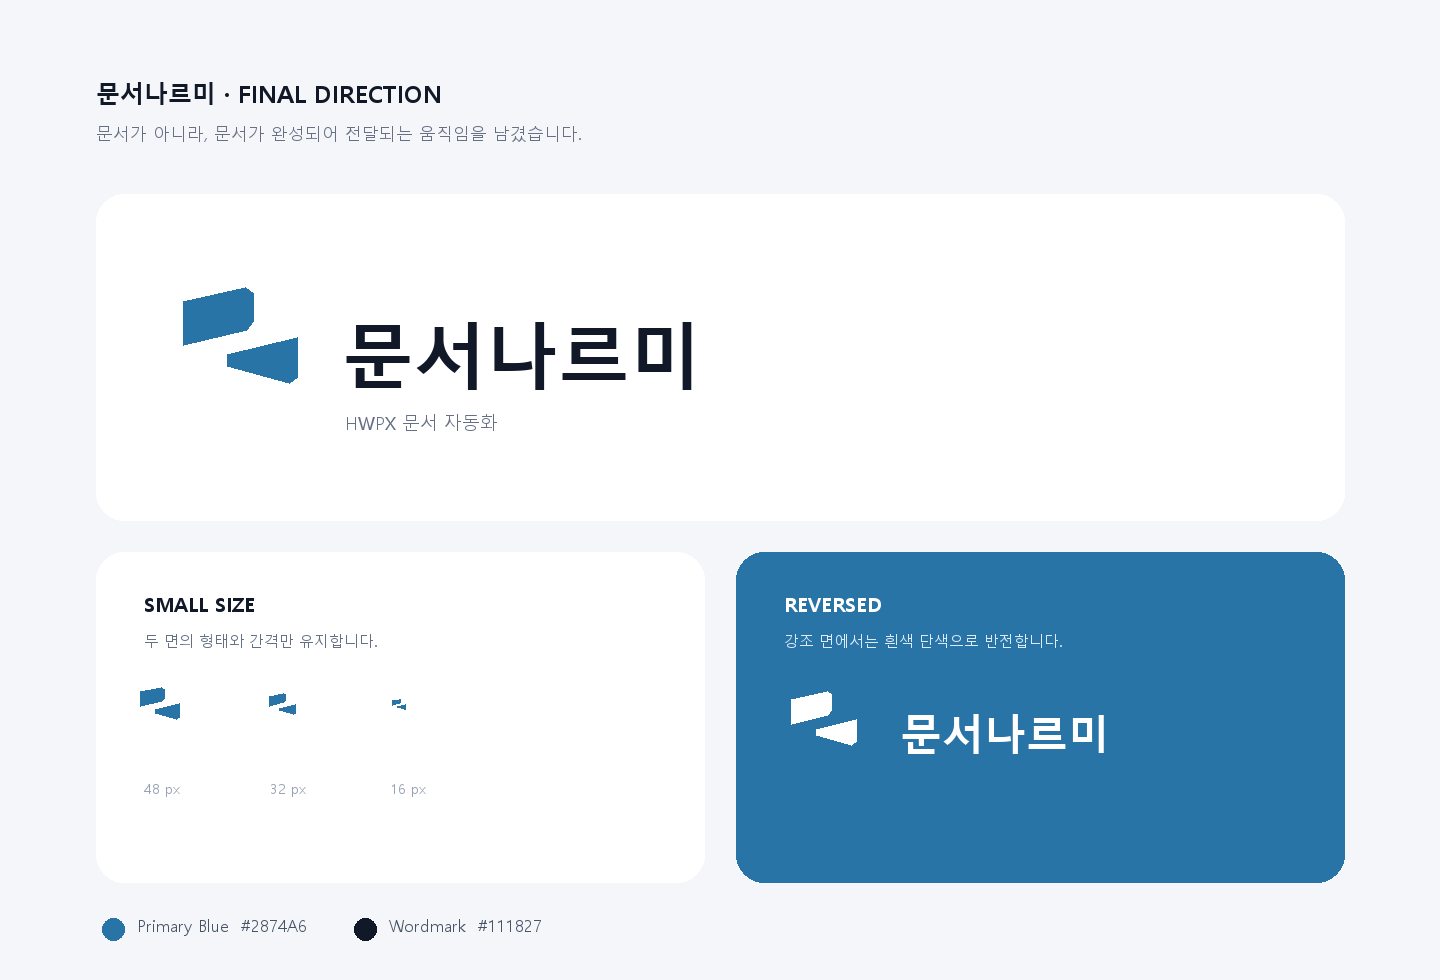
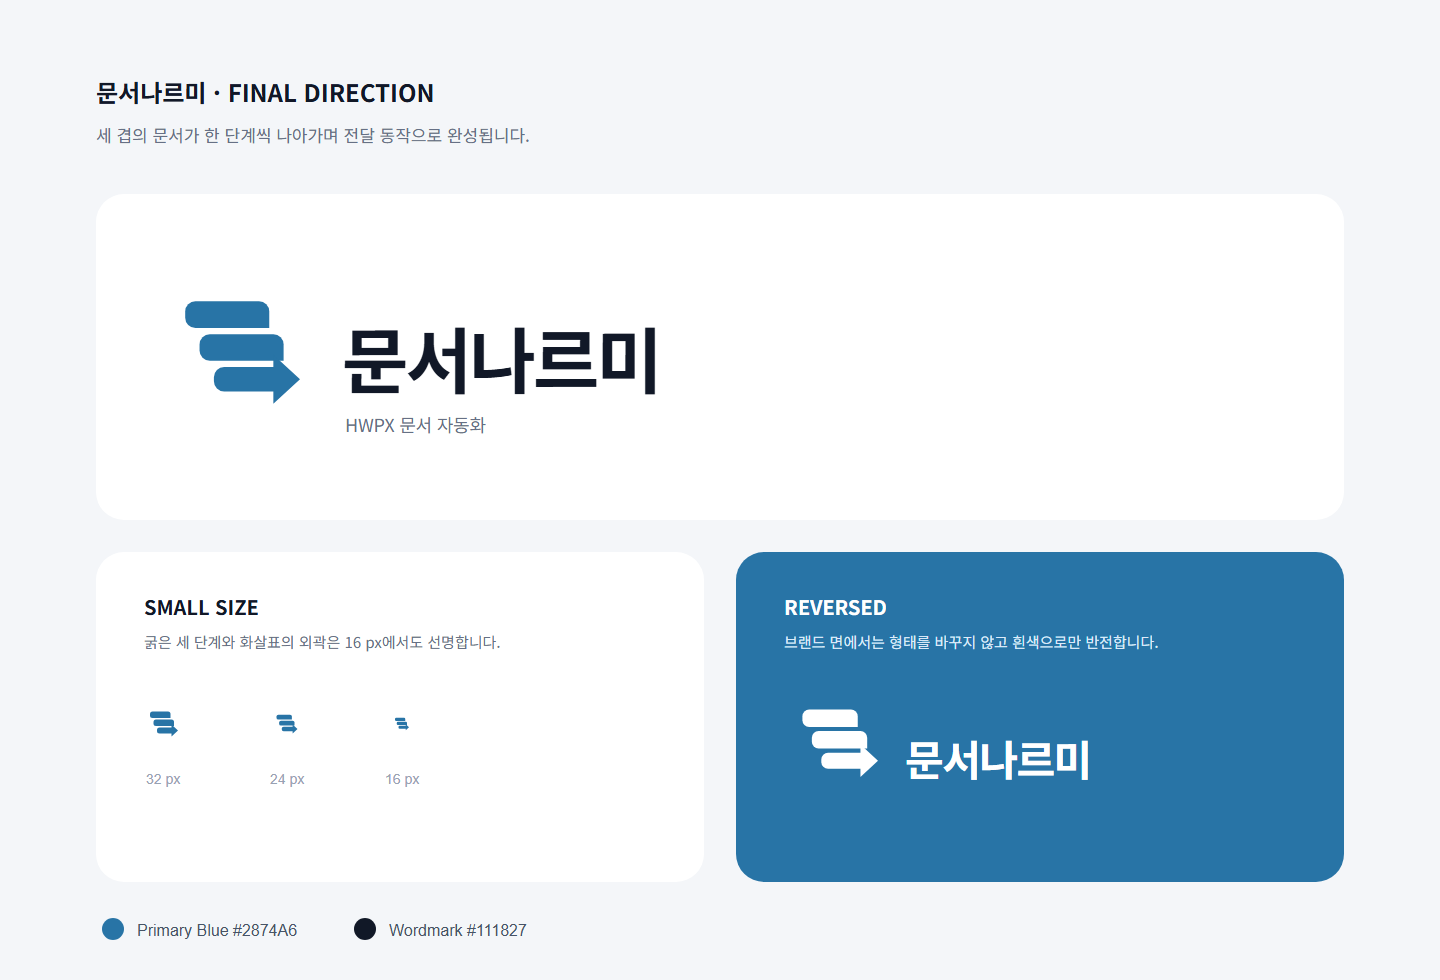
feat: 문서나르미 심벌 v2 — 두 평면에서 문서 3겹·전달 화살표로
16px 에서 두 평면이 무엇인지 읽히지 않던 자리를 형태로 답한다. 쌓인 문서가
한 단계씩 앞으로 이동해 전달 화살표로 완성되는 세 path 로 바꾸고, 락업·파비콘·
앱 아이콘·최종 보드를 같은 형상으로 맞췄다.

- `document-narmi-mark-final.svg`·`web/img/narmi-mark.svg`·`lockup-final.svg`·
  `final-board`(svg/png)·`packaging/hwpx-filler.ico` 재생성
- 레일 락업: 20px→24px, 배경 타일은 그대로 없음. 심벌 파랑은 `.brand-mark-layer`·
  `.brand-mark-arrow` 두 클래스가 지고 `--a-brand` 를 계속 액센트와 분리한다
- `web/index.html`·`docs/UI_GALLERY.html` 락업 마크업과 주석 동반 갱신
- `tests/test_branding.py`: 셸이 두 클래스를 싣는지 + 파비콘이 path 3개·rect 0개인지
  못박는다(단색 단언만으로는 형상 교체가 조용히 지나간다)
- 최종 마크를 낳은 방향안 `document-narmi-logo-directions-v2`(svg/png) 동봉 —
  1MB 급 초기 탐색 5종은 히스토리에 남기지 않는다

Claude-Session: https://claude.ai/code/session_01HmFACgbx34L18qfC9zJoxt

diff --git a/web/index.html b/web/index.html
@@ -23,9 +23,9 @@
      그 이전 슬라이스에서 사망. -->
 <div class="app">
   <header class="topbar">
-    <!-- #258 제품명 문서나르미 — 심벌(두 평면, 단색 var(--a-brand))+워드마크 락업. 심벌은 장식이라
+    <!-- #258 제품명 문서나르미 — 쌓인 문서가 전달 화살표로 이어지는 심벌과 워드마크 락업. 심벌은 장식이라
          aria-hidden(접근 이름은 텍스트 워드마크가 담당). 원본 SVG=docs/branding/document-narmi-mark-final.svg. -->
-    <div class="brand"><span class="brand-lockup"><svg class="brand-mark" viewBox="0 0 64 64" aria-hidden="true" focusable="false"><path d="M6 14.5 34.5 8c2.1-.5 3.5.7 3.5 2.8v12.7c0 2.2-1.3 3.7-3.4 4.2L6 34.5Z"/><path d="m26 38.5 32-8v18.2c0 2.3-1.7 3.5-3.8 2.9L26 43.8Z"/></svg><span class="brand-name">문서나르미</span></span></div>
+    <div class="brand"><span class="brand-lockup"><svg class="brand-mark" viewBox="0 0 64 64" aria-hidden="true" focusable="false"><path class="brand-mark-layer" d="M9 7h31a5 5 0 0 1 5 5v8H9a5 5 0 0 1-5-5v-3a5 5 0 0 1 5-5Z"/><path class="brand-mark-layer" d="M16 23h31a5 5 0 0 1 5 5v8H16a5 5 0 0 1-5-5v-3a5 5 0 0 1 5-5Z"/><path class="brand-mark-arrow" d="M23 39h24v-6l13 12-13 12v-6H23a5 5 0 0 1-5-5v-2a5 5 0 0 1 5-5Z"/></svg><span class="brand-name">문서나르미</span></span></div>
 
     <!-- 세그먼트 내비 — 활성 = 은은한 틴트 + 액센트 잉크. `data-scr` 는 **화면 키 그대로**
          (job·library·draft·tpl)이고 개명된 것은 사용자가 읽는 라벨뿐이다(§10.9 판정 A):

diff --git a/web/css/app.css b/web/css/app.css
@@ -44,11 +44,12 @@ code{font-family:"Cascadia Code","Consolas",ui-monospace,monospace;font-size:var
 .topbar{background:var(--n-header-bg);border-bottom:1px solid var(--a-border);
   display:grid;grid-template-columns:1fr auto 1fr;align-items:center;
   gap:var(--sp-16);padding:0 var(--sp-16);min-width:0}
-.topbar .brand{font-weight:800;font-size:var(--fs-strong);letter-spacing:-.01em;min-width:0}
-/* #258 문서나르미 락업 — 심벌은 브랜드 파랑 단색(--a-brand, 액센트와 별개), 워드마크는 잉크 상속.
-   16–24px 소형 사용 원칙에 따라 20px·배경 타일 없음. */
-.brand-lockup{display:flex;align-items:center;gap:var(--sp-6);min-width:0}
-.brand-mark{width:20px;height:20px;flex:none;fill:var(--a-brand)}
+.topbar .brand{font-weight:700;font-size:var(--fs-strong);letter-spacing:-.02em;min-width:0}
+/* #258 문서나르미 락업 — 세 겹의 문서가 한 단계씩 이동해 전달 화살표로 완성된다.
+   타일 없이도 16px에서 외곽이 남으며, 브랜드 파랑은 액센트와 분리한다. */
+.brand-lockup{display:flex;align-items:center;gap:var(--sp-8);min-width:0}
+.brand-mark{width:24px;height:24px;flex:none}
+.brand-mark-layer,.brand-mark-arrow{fill:var(--a-brand)}
 .brand-name{white-space:nowrap;overflow:hidden;text-overflow:ellipsis}
 /* 세그먼트 내비 — 가운데 정렬 한 묶음. 구분선(.nav-sep) 오른쪽은 과도기 임시 항목이라
    시각적으로도 갈라 둔다(§10.9 판정 B): 최종 형상은 구분선 왼쪽만 남는다. */

diff --git a/docs/UI_GALLERY.html b/docs/UI_GALLERY.html
@@ -60,7 +60,7 @@ body{padding:0}
     <div class="spec-h">.app · topbar nav — 앱 셸</div>
     <div class="app galapp">
       <header class="topbar">
-        <div class="brand"><span class="brand-lockup"><svg class="brand-mark" viewBox="0 0 64 64" aria-hidden="true" focusable="false"><path d="M6 14.5 34.5 8c2.1-.5 3.5.7 3.5 2.8v12.7c0 2.2-1.3 3.7-3.4 4.2L6 34.5Z"/><path d="m26 38.5 32-8v18.2c0 2.3-1.7 3.5-3.8 2.9L26 43.8Z"/></svg><span class="brand-name">문서나르미</span></span></div>
+        <div class="brand"><span class="brand-lockup"><svg class="brand-mark" viewBox="0 0 64 64" aria-hidden="true" focusable="false"><path class="brand-mark-layer" d="M9 7h31a5 5 0 0 1 5 5v8H9a5 5 0 0 1-5-5v-3a5 5 0 0 1 5-5Z"/><path class="brand-mark-layer" d="M16 23h31a5 5 0 0 1 5 5v8H16a5 5 0 0 1-5-5v-3a5 5 0 0 1 5-5Z"/><path class="brand-mark-arrow" d="M23 39h24v-6l13 12-13 12v-6H23a5 5 0 0 1-5-5v-2a5 5 0 0 1 5-5Z"/></svg><span class="brand-name">문서나르미</span></span></div>
         <!-- 실 상단 2탭 + 과도기 임시 2항목 미러(F2 PR-B) — 좌 레일 5화면 라우팅은 사망했다.
              구분선 오른쪽(.temp)은 승계처가 서면(F6·F8) 죽는다. 손짠 표본이라 실앱과 자동
              동기되지 않는다(항목이 바뀌면 수동 반영). -->

diff --git a/tests/test_branding.py b/tests/test_branding.py
@@ -23,6 +23,8 @@ def test_web_shell_shows_product_name_only() -> None:
     html = _read("web", "index.html")
     assert f"<title>{PRODUCT}</title>" in html
     assert 'class="brand-mark"' in html, "레일 락업에 심벌 SVG 가 없다"
+    assert 'class="brand-mark-layer"' in html
+    assert 'class="brand-mark-arrow"' in html
     assert f'<span class="brand-name">{PRODUCT}</span>' in html
     assert "HWPX Filler" not in html
 
@@ -95,6 +97,8 @@ def test_root_readme_is_product_entry() -> None:
 
 
 def test_favicon_asset_bundled() -> None:
-    """web/img 심벌 SVG(파비콘)가 존재하고 브랜드 파랑 단색이다."""
+    """web/img 심벌 SVG(파비콘)가 브랜드 파랑의 세 문서 이동 단계를 담는다."""
     svg = _read("web", "img", "narmi-mark.svg")
     assert 'fill="#2874A6"' in svg
+    assert svg.count("<path ") == 3
+    assert "<rect " not in svg
